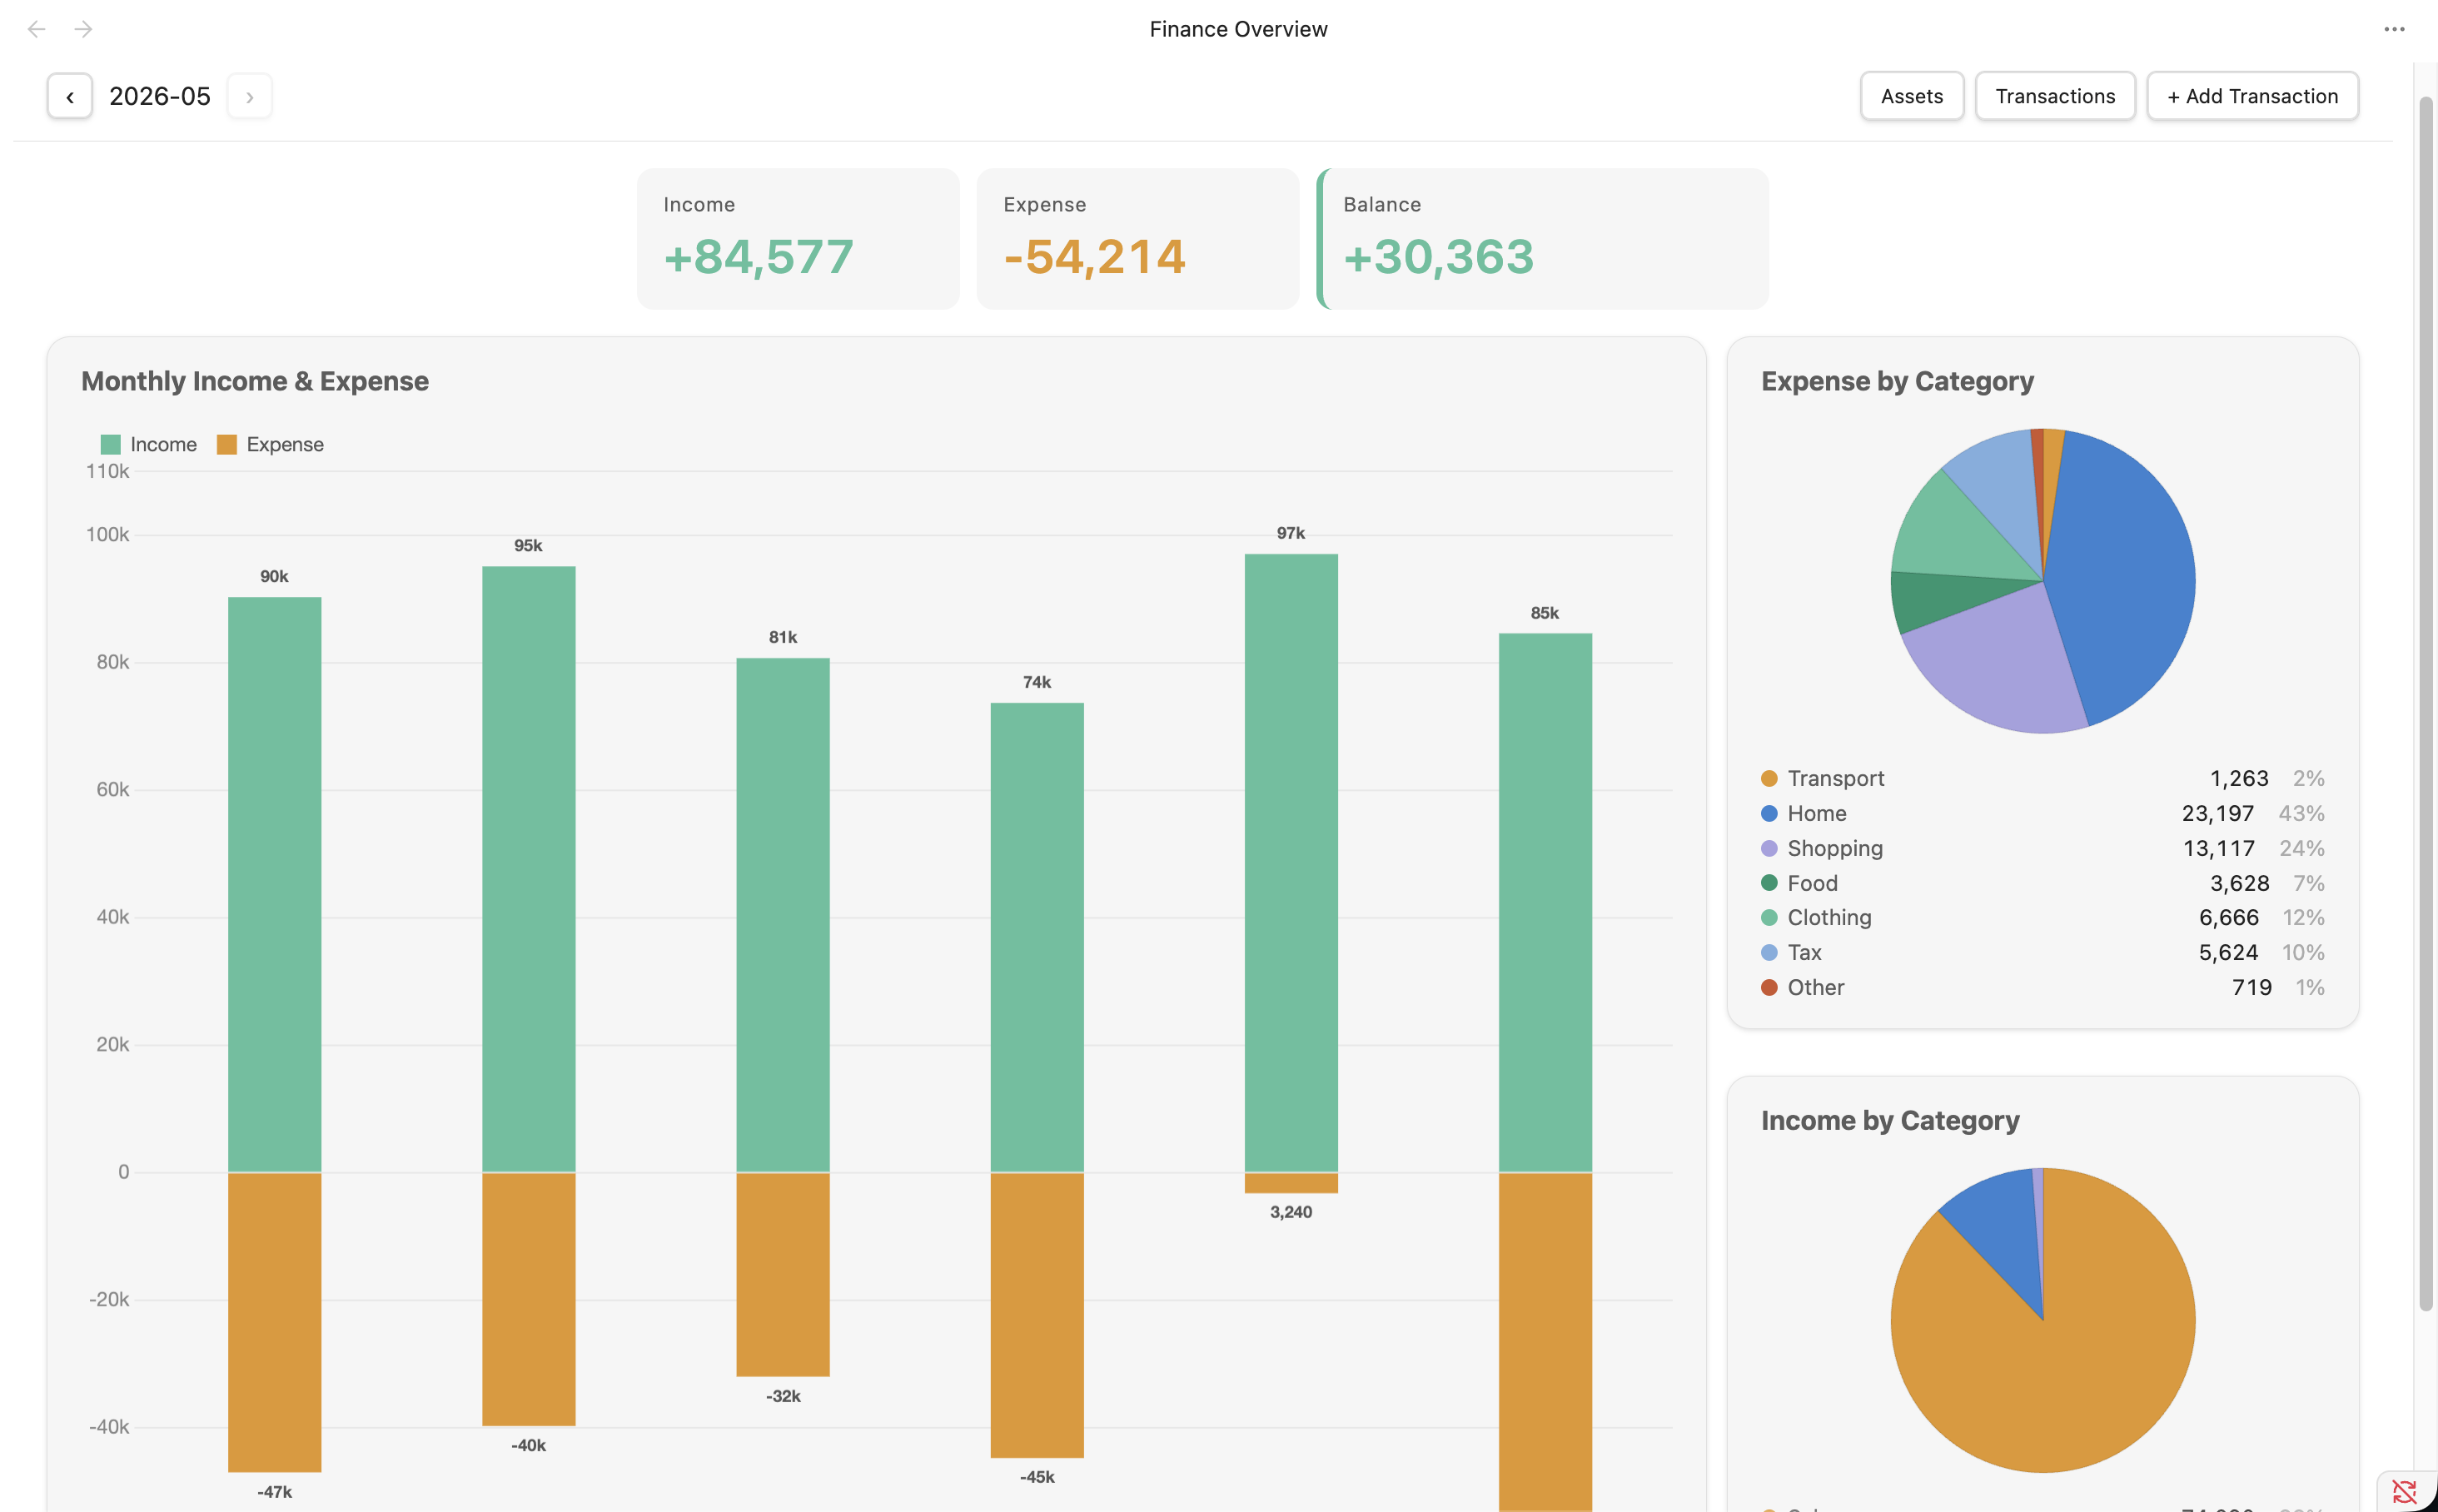
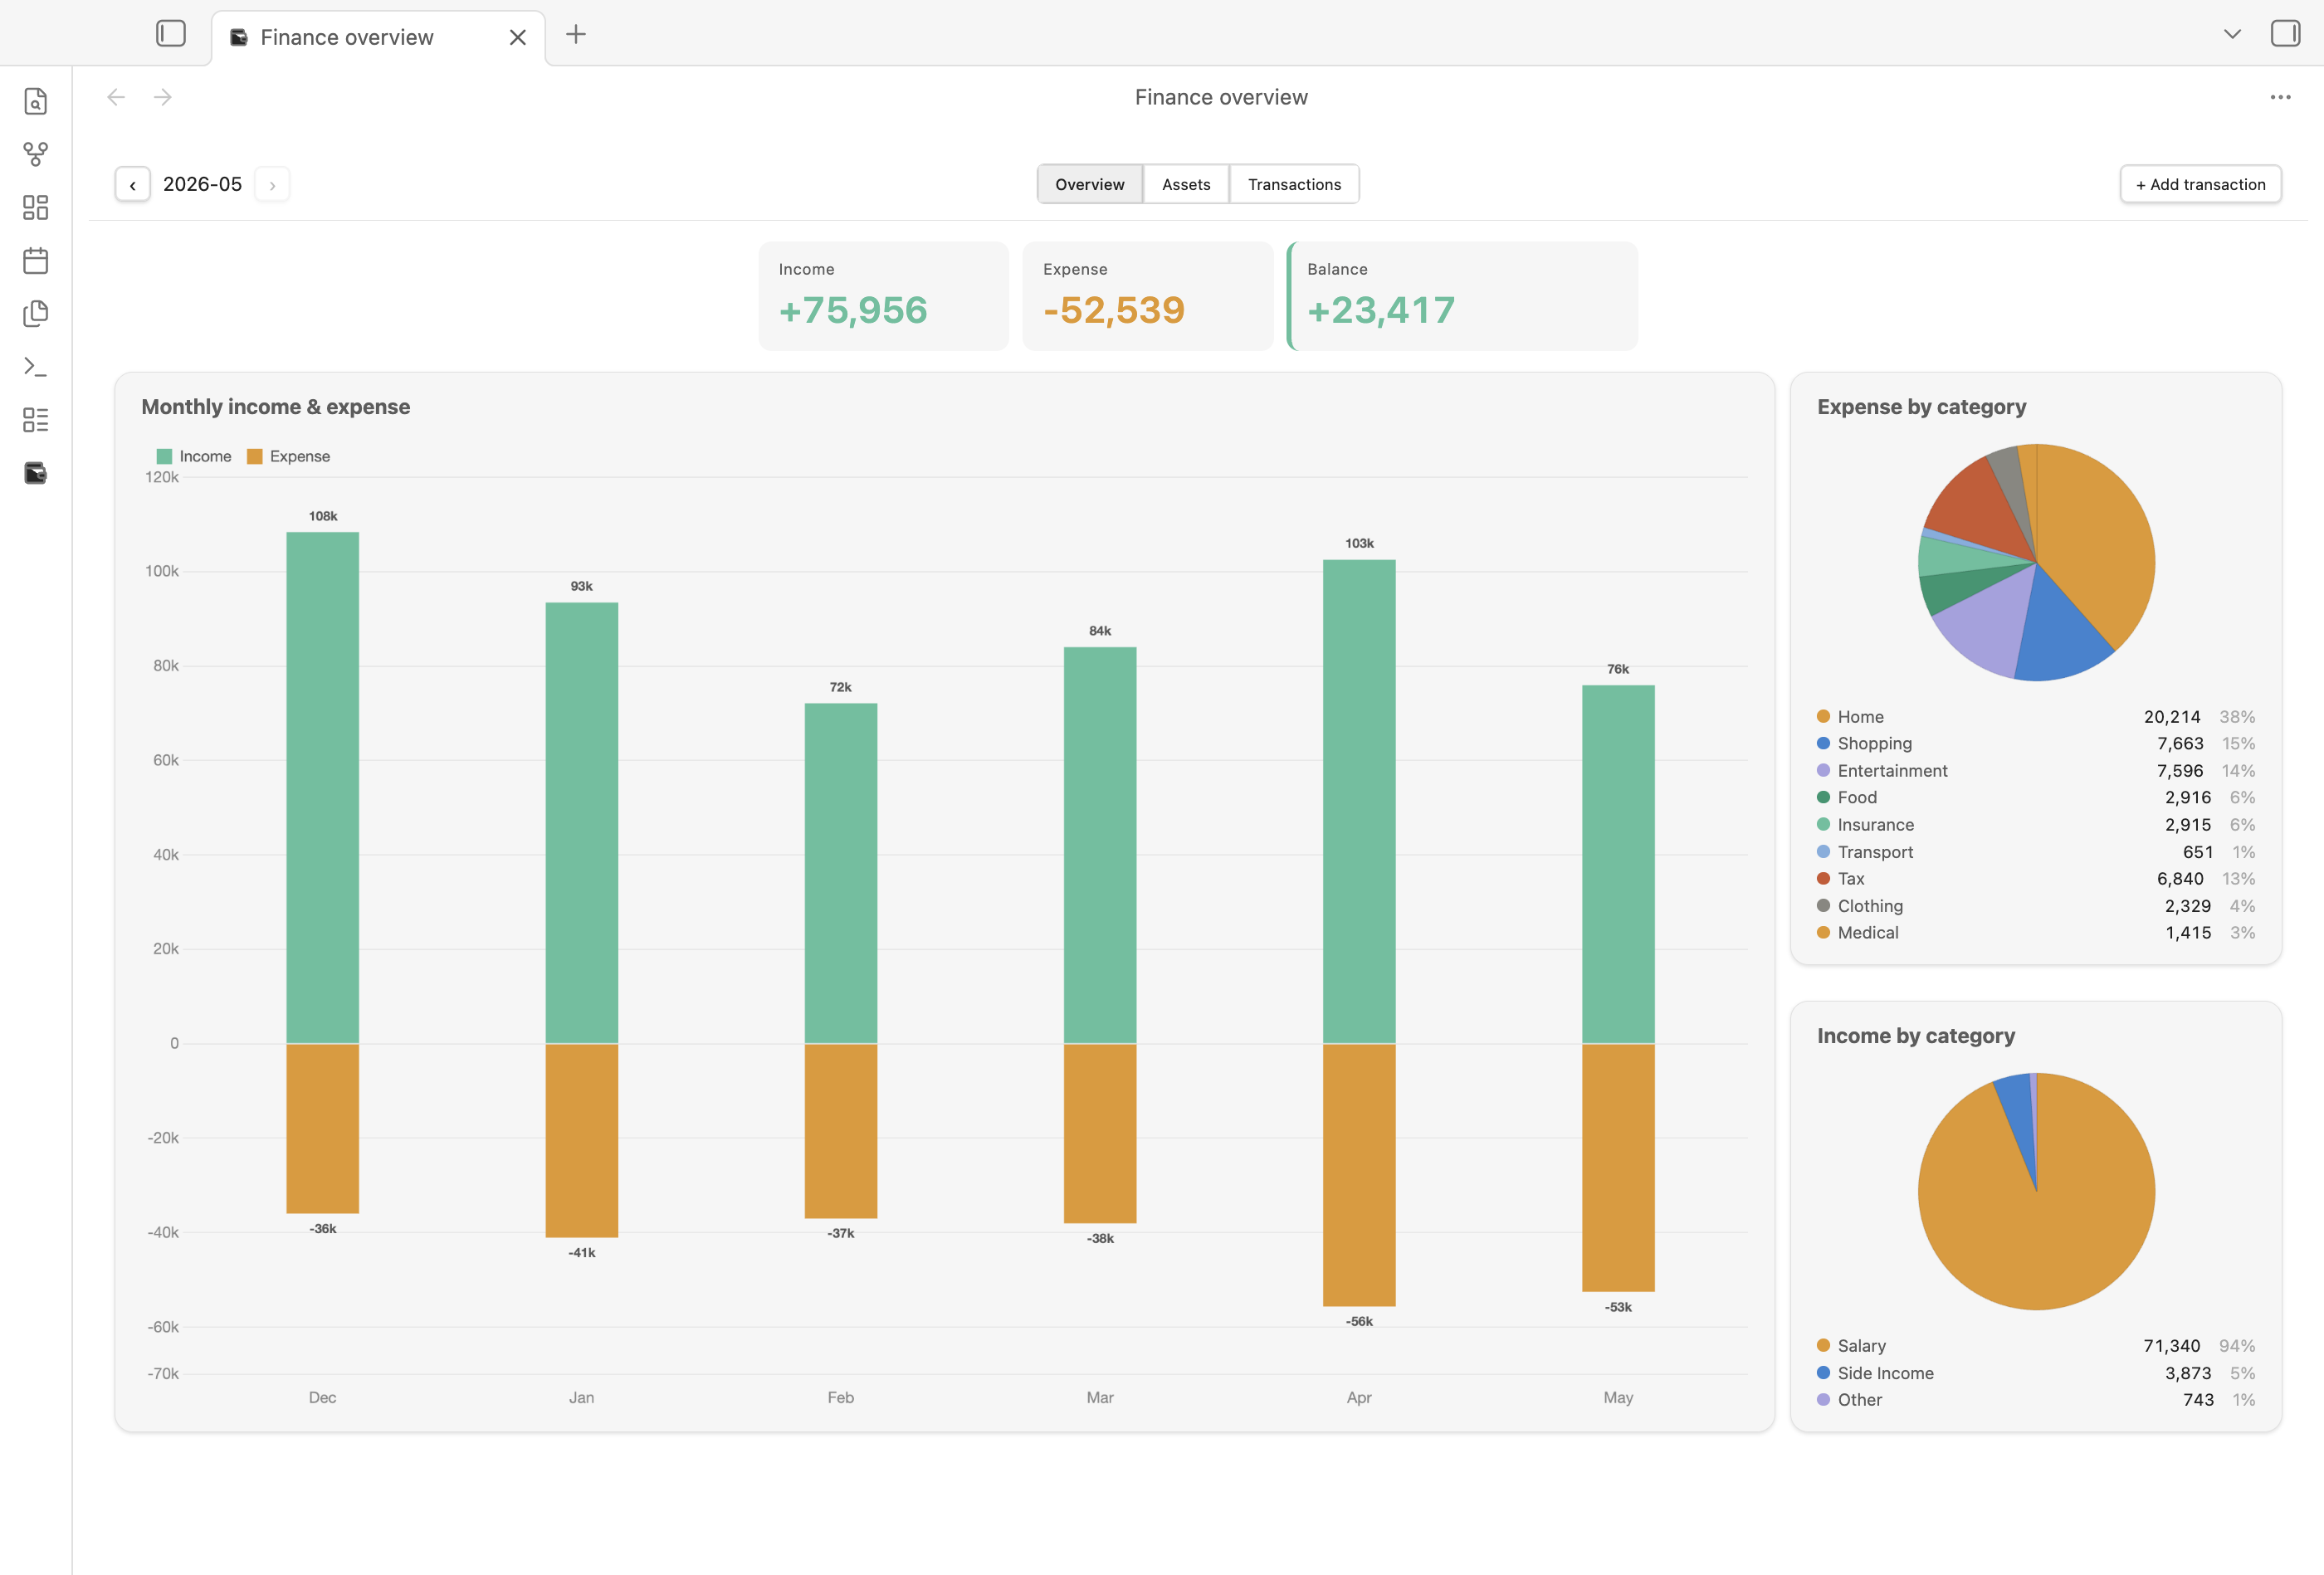
docs: refresh README and docs with updated screenshots and BRAT install
- Add BRAT install instructions and drop outdated community-store note
- Update feature list, transaction form, and views sections to match
  current UI (wallet filters, filter sheet, mobile calculator)
- Replace raw-markdown image with inline frontmatter+table example
- Refresh screenshots and add mobile transaction modal

diff --git a/README.md b/README.md
@@ -6,33 +6,43 @@ A personal finance tracker plugin for [Obsidian](https://obsidian.md). Log expen
 
 ## Features
 
-- **Finance Overview** — monthly income / expense summary, 6-month income/expense chart, and category pie charts
-- **Transactions** — multi-select type filter, category checklist, keyword search, hover actions, inline edit and delete, with sticky subtotals
+- **Finance overview** — monthly income / expense summary, 6-month income/expense chart, and category pie charts
+- **Transactions** — multi-select type and wallet filters, category and account dropdowns, date range, keyword search, and sticky subtotals
 - **Assets** — 3 / 6 / 12-month range selector, account balances, net asset trend, savings rate, and asset allocation pie
 - **Multiple account types** — cash, bank account, credit card (with debt tracking)
 - **Custom categories** — add your own expense and income categories
+- **Mobile-friendly entry** — touch-optimized transaction form with bottom-sheet pickers and an on-screen calculator
 - **iOS Shortcuts support** — add transactions via URI without opening Obsidian
 - **Bilingual** — English and Traditional Chinese (follows Obsidian language setting)
 
 ## Installation
 
+### Community plugins
+
+PennyWallet is not yet listed in Obsidian's community plugins. Use BRAT or manual install below.
+
+### BRAT (beta)
+
+[BRAT](https://github.com/TfTHacker/obsidian42-brat) is a community plugin that installs beta plugins directly from GitHub and keeps them updated.
+
+1. Install the **BRAT** plugin from **Settings → Community plugins → Browse** and enable it
+2. Run **BRAT: Add a beta plugin for testing** from the Command Palette
+3. Enter the repository: `twrusstw/penny-wallet`
+4. Enable **PennyWallet** in **Settings → Community plugins**
+
 ### Manual
 
 1. Download `main.js`, `manifest.json`, `styles.css` from the [latest release](https://github.com/twrusstw/penny-wallet/releases/latest)
 2. Copy them to `<vault>/.obsidian/plugins/penny-wallet/`
-3. Enable the plugin in **Settings → Community Plugins**
+3. Enable the plugin in **Settings → Community plugins**
 
-### Community Plugin Store
-
-PennyWallet is not yet listed in the Community Plugin Store.
-
-## Getting Started
+## Getting started
 
 1. Enable PennyWallet — a wallet icon appears in the left ribbon
 2. Open **Settings → PennyWallet** and add your accounts with their current balances ([Settings guide](https://twrusstw.github.io/penny-wallet/settings) · [中文說明](https://twrusstw.github.io/penny-wallet/zh/settings))
-3. Click the ribbon icon or run **Add Transaction** from the Command Palette to log your first entry
+3. Click the ribbon icon or run **Add transaction** from the Command Palette to log your first entry
 
-## Transaction Types
+## Transaction types
 
 | Type | Description |
 |------|-------------|
@@ -42,17 +52,27 @@ PennyWallet is not yet listed in the Community Plugin Store.
 
 Credit card accounts track outstanding debt. Expenses increase the debt; credit card payment transfers reduce it. Refunds are stored as negative expenses and shown as positive expense reversals. Net asset calculation automatically subtracts credit card debt.
 
+## Adding transactions
+
+The transaction form supports refund entries, marks required fields, shows the original date when editing, and lets you attach tags as chips.
+
+![Transaction modal](images/transaction-modal.png)
+
+On mobile, wallet / category / tag fields open as bottom-sheet pickers, and the amount field opens a calculator sheet with `00`, ⌫, and a formula bar in the title — press **Done** to commit.
+
+<img src="images/transaction-modal-mobile.png" alt="Mobile calculator" width="320" />
+
 ## Views
 
-### Finance Overview
+### Finance overview
 
 Monthly summary with income, expense, and balance metrics, plus a 6-month income/expense chart and expense/income category pie charts. Each pie legend shows name, amount, and percentage.
 
-![Finance Overview](images/finance-overview.png)
+![Finance overview](images/finance-overview.png)
 
 ### Transactions
 
-Full transaction list with multi-select type filter, category checklist dropdown, keyword search, hover actions, inline edit and delete. Header and subtotals stay fixed while the list scrolls.
+Full transaction list with multi-select type and wallet filters (tinted pills), category and account dropdowns, date-range pickers, and keyword search. On mobile, the dropdowns and date range collapse into a **Filter ▾** sheet next to the search box. Edit via hover (desktop) or row tap (mobile); delete lives inside the edit modal. Header and subtotals stay fixed while the list scrolls.
 
 ![Transactions](images/transactions-view.png)
 
@@ -64,17 +84,11 @@ Medium-term financial view with a 3 / 6 / 12-month range selector, account balan
 
 ### Settings
 
-Add, edit, or archive accounts. Manage custom expense and income categories.
+General preferences, account management (active / archived), and custom expense / income / transfer categories.
 
 ![Settings](images/settings-accounts.png)
 
-## Transaction Modal
-
-The transaction form supports refund entries, required-field markers, edit-mode date context, and tag chips. On mobile, tags open in a bottom-sheet multi-select picker with search and inline new-tag creation.
-
-![Transaction Modal](images/transaction-modal.png)
-
-## URI Handler
+## URI handler
 
 PennyWallet registers the `obsidian://penny-wallet` URI scheme, allowing external apps — including iOS Shortcuts — to open the transaction form with fields pre-filled.
 
@@ -84,9 +98,9 @@ obsidian://penny-wallet?type=expense&amount=280&category=food&note=Lunch
 
 Supported parameters: `type`, `amount`, `note`, `category`, `wallet`, `fromWallet`, `toWallet`, `date`.
 
-→ [Full URI Handler & iOS Shortcuts guide](https://twrusstw.github.io/penny-wallet/uri-handler)
+→ [Full URI handler & iOS Shortcuts guide](https://twrusstw.github.io/penny-wallet/uri-handler)
 
-## Data Format
+## Data format
 
 Transactions are stored as Markdown tables, one file per month:
 
@@ -98,9 +112,24 @@ Transactions are stored as Markdown tables, one file per month:
     └── 2026-03.md
 ```
 
-![Raw Markdown](images/raw-markdown.png)
+Each month file has YAML frontmatter (`income`, `expense`, `netAsset`) for fast loading, followed by a plain Markdown table of transactions:
 
-Each file has a frontmatter cache (`income`, `expense`, `netAsset`) for fast loading, and a plain Markdown table of transactions. The format is compatible with Git sync and Dataview queries.
+```markdown
+---
+income: 75956
+expense: 52539
+netAsset: 0
+---
+
+## 2026-05
+
+| Date | Type | Wallet | From | To | Category | Note | Tags | Amount | CreatedAt |
+| ---- | ---- | ------ | ---- | -- | -------- | ---- | ---- | ------ | --------- |
+| 05/02 | expense | HSBC Premier | - | - | housing | Rent | family,essential | 18418 | 2026-05-01T18:02:51.933Z |
+| 05/02 | expense | Citibank | - | - | shopping | Online Shopping | - | 941 | 2026-05-01T20:08:15.639Z |
+```
+
+The format is compatible with Git sync and Dataview queries.
 
 ## License
 

diff --git a/docs/getting-started.md b/docs/getting-started.md
@@ -2,16 +2,25 @@
 
 ## Installation
 
-### Manual Install
+### From Community plugins
+
+PennyWallet is not yet listed in Obsidian's community plugins. Use BRAT or manual install below.
+
+### BRAT (beta)
+
+[BRAT](https://github.com/TfTHacker/obsidian42-brat) installs beta plugins directly from GitHub and keeps them updated.
+
+1. Install the **BRAT** plugin from **Settings → Community plugins → Browse** and enable it
+2. Run **BRAT: Add a beta plugin for testing** from the Command Palette
+3. Enter the repository: `twrusstw/penny-wallet`
+4. Enable **PennyWallet** in **Settings → Community plugins**
+
+### Manual
 
 1. Download `main.js`, `manifest.json`, and `styles.css` from the [latest release](https://github.com/twrusstw/penny-wallet/releases/latest)
 2. Create the folder `<your-vault>/.obsidian/plugins/penny-wallet/`
 3. Copy the three files into that folder
-4. Open Obsidian → **Settings → Community Plugins** → enable **PennyWallet**
-
-### Community Plugin Store
-
-PennyWallet is not yet listed in the Community Plugin Store.
+4. Open Obsidian → **Settings → Community plugins** → enable **PennyWallet**
 
 ---
 
@@ -29,23 +38,15 @@ For each account you have, add an entry with:
 
 > **Tip:** Add all accounts before logging any transactions, so balances are calculated correctly from the start.
 
+![Add account form in Settings](/settings-add-account.png)
+
 ### Step 2 — Set a default account
 
 In **Settings → PennyWallet → General**, choose which account should be pre-selected when you open the Add Transaction form.
 
 ### Step 3 — Log your first transaction
 
-Click the **PennyWallet icon** in the left ribbon to open the Finance Overview, then press **+ Add Transaction**.
-
-Alternatively, use these Command Palette commands (`Cmd+P`):
-
-| Command | Action |
-|---------|--------|
-| `PennyWallet: Open Finance Overview` | Open the dashboard |
-| `PennyWallet: Open Transactions` | Open the transaction list |
-| `PennyWallet: Open assets` | Open the assets view |
-| `PennyWallet: Add Transaction` | Open the transaction form directly |
-| `PennyWallet: Refresh views` | Refresh all open PennyWallet views |
+Click the **PennyWallet icon** in the left ribbon to open the Finance Overview, then press **+ Add Transaction**. You can also run `PennyWallet: Add transaction` from the Command Palette (`Cmd+P`).
 
 Fill in:
 - **Type** — Expense, Income, or Transfer
@@ -54,9 +55,29 @@ Fill in:
 - **Category** — choose from the list or leave blank
 - **Note** — optional description
 - **Tags** — optional labels; on mobile, tap the tag row to open the picker
-- **Amount**
+- **Amount** — on mobile, tapping the field opens a calculator sheet with numpad, `00`, ⌫, and a formula bar in the title; press **Done** to commit the value
 
 Press **Confirm** to save.
+
+<img src="/transaction-modal.png" alt="Add transaction form" width="560" />
+
+> Using PennyWallet on a phone? See [Mobile entry](./transactions#mobile-entry) for bottom-sheet pickers and the calculator.
+
+---
+
+## Command palette
+
+All commands are available via `Cmd+P` (or `Ctrl+P` on Windows / Linux):
+
+| Command | Action |
+|---------|--------|
+| `PennyWallet: Open finance overview` | Open the dashboard |
+| `PennyWallet: Open transactions` | Open the transactions view |
+| `PennyWallet: Open assets` | Open the assets view |
+| `PennyWallet: Add transaction` | Open the transaction form directly |
+| `PennyWallet: Refresh views` | Refresh all open PennyWallet views |
+| `PennyWallet: Validate data` | Scan all wallet files for frontmatter / orphan-wallet issues |
+| `PennyWallet: Open settings` | Open Obsidian Settings on the PennyWallet tab |
 
 ---
 

diff --git a/docs/zh/getting-started.md b/docs/zh/getting-started.md
@@ -2,16 +2,25 @@
 
 ## 安裝方式
 
+### 從社群外掛安裝
+
+PennyWallet 尚未上架至 Obsidian 社群外掛。請改用以下 BRAT 或手動安裝。
+
+### BRAT（beta）
+
+[BRAT](https://github.com/TfTHacker/obsidian42-brat) 可以直接從 GitHub 安裝 beta 版外掛並自動更新。
+
+1. 在 **設定 → 社群外掛 → 瀏覽** 搜尋並安裝 **BRAT** 並啟用
+2. 從指令面板執行 **BRAT: Add a beta plugin for testing**
+3. 輸入 repository：`twrusstw/penny-wallet`
+4. 在 **設定 → 社群外掛** 啟用 **PennyWallet**
+
 ### 手動安裝
 
 1. 從 [最新版本](https://github.com/twrusstw/penny-wallet/releases/latest) 下載 `main.js`、`manifest.json` 和 `styles.css`
 2. 在 vault 中建立資料夾 `<your-vault>/.obsidian/plugins/penny-wallet/`
 3. 將三個檔案複製到該資料夾
 4. 開啟 Obsidian → **設定 → 社群外掛** → 啟用 **PennyWallet**
-
-### 社群外掛商店
-
-PennyWallet 尚未上架 Obsidian 社群外掛商店。
 
 ---
 
@@ -29,23 +38,15 @@ PennyWallet 尚未上架 Obsidian 社群外掛商店。
 
 > **提示：** 建議在記錄任何交易前先新增所有帳戶，這樣餘額計算從一開始就正確。
 
+![設定中的新增帳戶](/settings-add-account.png)
+
 ### 步驟二 — 設定預設帳戶
 
 在 **設定 → PennyWallet → 一般**，選擇開啟新增交易表單時預設選取的帳戶。
 
 ### 步驟三 — 記錄第一筆交易
 
-點擊左側面板的 **PennyWallet 圖示** 開啟帳本總覽，然後按下 **+ 新增交易**。
-
-也可以使用指令面板（`Cmd+P`）：
-
-| 指令 | 動作 |
-|------|------|
-| `PennyWallet: Open Finance Overview` | 開啟儀表板 |
-| `PennyWallet: Open Transactions` | 開啟交易清單 |
-| `PennyWallet: Open assets` | 開啟資產檢視 |
-| `PennyWallet: Add Transaction` | 直接開啟交易表單 |
-| `PennyWallet: Refresh views` | 重新整理所有已開啟的 PennyWallet 檢視 |
+點擊左側面板的 **PennyWallet 圖示** 開啟帳本總覽，然後按下 **+ 新增交易**。也可以從指令面板（`Cmd+P`）執行 `PennyWallet: Add transaction`。
 
 填寫欄位：
 - **類型** — 支出、收入或移轉
@@ -54,9 +55,29 @@ PennyWallet 尚未上架 Obsidian 社群外掛商店。
 - **分類** — 從清單中選擇或留空
 - **備註** — 選填說明
 - **標籤** — 選填標籤；mobile 上點擊標籤列會開啟 picker
-- **金額**
+- **金額** — mobile 上點擊欄位會開啟計算機 sheet，內含 numpad、`00`、⌫，title bar 顯示算式；按 **完成** 寫回金額
 
 按下 **確認** 儲存。
+
+<img src="/transaction-modal.png" alt="新增交易表單" width="560" />
+
+> 在手機上使用 PennyWallet？請見 [Mobile 操作](./transactions#mobile-操作) 了解 bottom sheet picker 與計算機 sheet。
+
+---
+
+## 指令面板
+
+所有指令可透過 `Cmd+P`（Windows / Linux 為 `Ctrl+P`）開啟：
+
+| 指令 | 動作 |
+|------|------|
+| `PennyWallet: Open finance overview` | 開啟帳本總覽 |
+| `PennyWallet: Open transactions` | 開啟收支明細 |
+| `PennyWallet: Open assets` | 開啟資產檢視 |
+| `PennyWallet: Add transaction` | 直接開啟交易表單 |
+| `PennyWallet: Refresh views` | 重新整理所有已開啟的 PennyWallet 檢視 |
+| `PennyWallet: Validate data` | 掃描所有帳本檔，檢查 frontmatter / 失聯錢包 |
+| `PennyWallet: Open settings` | 直接開啟 Obsidian 設定的 PennyWallet 分頁 |
 
 ---
 

diff --git a/docs/transactions.md b/docs/transactions.md
@@ -93,11 +93,20 @@ Moving money between two of your own accounts — including credit card payments
 
 **From iOS Shortcuts:** see [URI Handler & iOS Shortcuts](./uri-handler)
 
+### Mobile entry
+
+On phones (`body.is-phone`), the transaction form switches to a touch-friendly layout:
+
+- **Amount** opens a calculator sheet — numpad, `00`, ⌫, and a formula bar in the sheet title. Press **Done** to commit the computed value back into the field.
+- **Wallet**, **Category**, and **Tag** fields open as bottom-sheet pickers with search; tags and categories can be created inline from the picker.
+
+<img src="/transaction-modal-mobile.png" alt="Mobile calculator sheet" width="320" />
+
 ---
 
 ## Editing and Deleting
 
-Open the **Transactions** view, find the entry, and click the **edit (✏)** or **delete (🗑)** icon on the right side of the row.
+Open the **Transactions** view, find the entry, and click the **edit (✏)** icon on the right side of the row. **Delete** lives inside the edit modal — open the entry to edit, then use the delete action (a confirmation dialog appears before deletion).
 
 Editing supports changing the **date** (including moving the transaction to a different month), the type, account, category, note, and amount.
 

diff --git a/docs/views.md b/docs/views.md
@@ -8,6 +8,8 @@ PennyWallet has three views. The **Finance Overview** can be opened from the rib
 
 The main dashboard. Open it by clicking the **PennyWallet icon** in the left ribbon, or run **PennyWallet: Open Finance Overview** from the Command Palette.
 
+![Finance overview](/finance-overview.png)
+
 The header also contains two navigation buttons:
 - **Transactions** — switch to the Transactions list view
 - **Assets** — switch to the assets view
@@ -51,17 +53,21 @@ Each legend entry shows the category name, amount, and percentage. Small categor
 
 A full list of all transactions for the selected month, with filters and subtotals.
 
+![Transactions view](/transactions-view.png)
+
 ### Filters
 
 - **Type pills** — multi-select: All / Expense / Income / Transfer (tap multiple to combine)
+- **Wallet pills** — multi-select; pills are tinted per account so the active filter is visible at a glance
 - **Category dropdown** — checklist of categories present in the filtered results; select any combination to narrow further
 - **Keyword search** — filters transactions whose note contains the search text
+- **Filter sheet (detail view)** — a shared header opens a sheet for picking account and date range; on mobile, the sheet backdrop covers the Obsidian toolbar so the sheet owns the screen
 
 ### Transaction Rows
 
 Each row shows: date, type badge, category, note, account (or From → To for transfers), and amount.
 
-On desktop, hover a row to reveal **✏** edit and **🗑** delete. On mobile, actions stay visible. A confirmation dialog appears before deletion. Refund expenses appear as positive expense reversals, visually distinct from income.
+On desktop, hover a row to reveal the **✏** edit action. On mobile, the edit affordance stays visible. Delete now lives inside the edit modal (a confirmation dialog appears before deletion). Refund expenses appear as positive expense reversals, visually distinct from income.
 
 ### Subtotals
 
@@ -72,6 +78,8 @@ A fixed bar at the bottom always shows **Expense Subtotal** and **Income Subtota
 ## Assets
 
 An assets-focused view for medium-term financial tracking. Open it from the **Assets** button in the Finance Overview header, or run **PennyWallet: Open assets** from the Command Palette.
+
+![Assets view](/asset-view.png)
 
 ### Range Selector
 